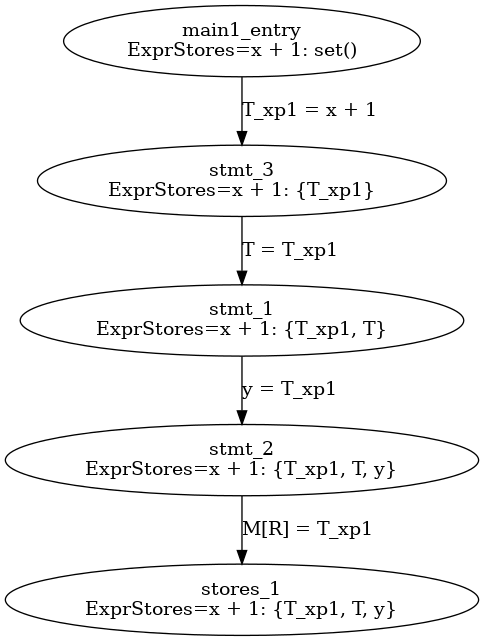
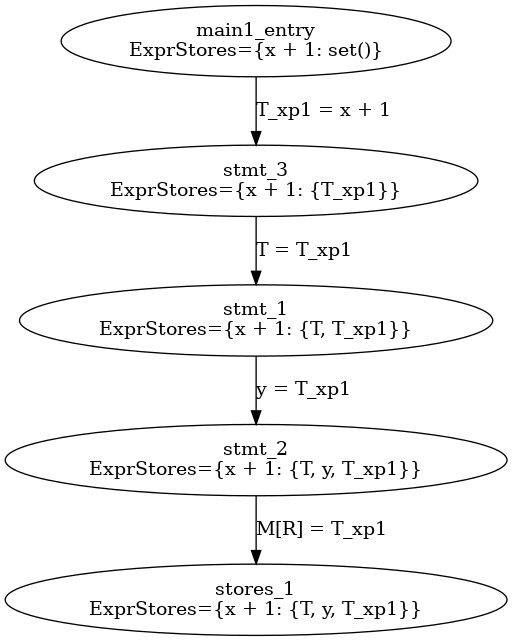
fix

diff --git a/optimizer/optimizer.py b/optimizer/optimizer.py
@@ -34,17 +34,7 @@ class Optimizer:
 
                 analyses_results[analyses] = A
 
-                if debug:
-                    print(f"{BColors.WARNING}Analysis results for {
-                        analyses.name()}{BColors.ENDC}")
-
                 for node, state in A.items():
-
-                    if debug:
-                        print(f"{node.name:>15} {
-                            BColors.OKGREEN}{
-                            analyses.lattice.show(state):^20}{BColors.ENDC}")
-
                     node.annotations[analyses] = state
 
             self.cfg = trans.transform(self.cfg, analyses_results)

diff --git a/lattices/combined_lattice.py b/lattices/combined_lattice.py
@@ -34,7 +34,7 @@ class CombinedLattice(Generic[A, T], CompleteLattice[dict[A, T]]):
         return {k: self.entries[k].copy(a[k]) for k in self.entries.keys()}
 
     def show(self,  a: dict[A, T]) -> str:
-        ret = ""
+        ret = []
         for k, v in a.items():
-            ret += f"{str(k)}: {self.entries[k].show(v)}\n"
-        return ret
+            ret.append(f"{k}: {self.entries[k].show(v)}")
+        return "{" + ", ".join(ret) + "}"

diff --git a/optimizer/solver/round_robin.py b/optimizer/solver/round_robin.py
@@ -93,5 +93,11 @@ class RoundRobinSolver(Solver):
 
         if debug:
             print()
+            print(f"{BColors.WARNING}Analysis results{BColors.ENDC}")
+
+            for node, state in states.items():
+                print(f"{node.name:>15} {
+                    BColors.OKGREEN}{
+                    lattice.show(state):<20}{BColors.ENDC}")
 
         return states

diff --git a/optimizer/solver/solver.py b/optimizer/solver/solver.py
@@ -8,7 +8,7 @@ from util.bcolors import BColors
 
 class Solver:
 
-    PRINT_TEMPLATE_FORWARDS = "                {:<20} {:^20}  --[ {:^30} ]--> {:>20} {:<20}"
+    PRINT_TEMPLATE_FORWARDS = "  {:<20} {:>20}  --[ {:^30} ]--> {:>20} {:>20}"
     PRINT_TEMPLATE_BACKWARDS = "  {:<20} {:>20} <--[ {:^30} ]--  {:>20} {:>20}"
 
     @staticmethod
